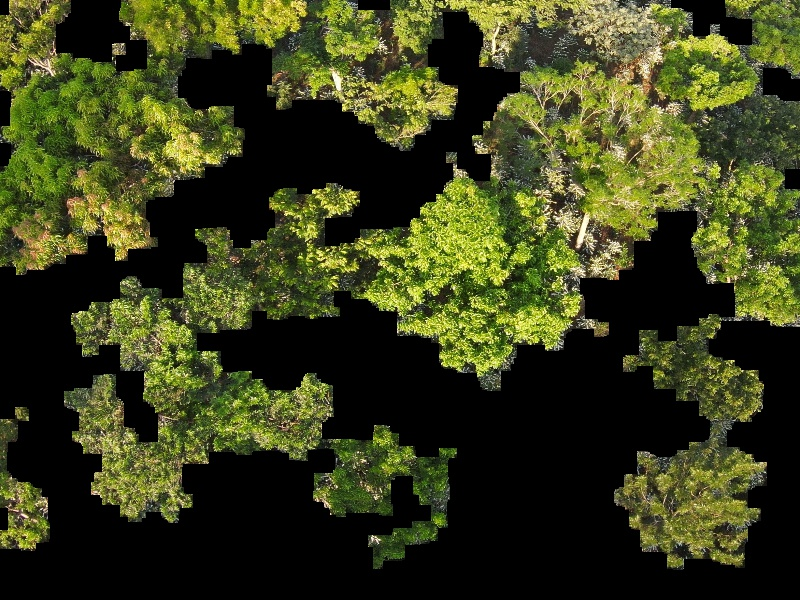
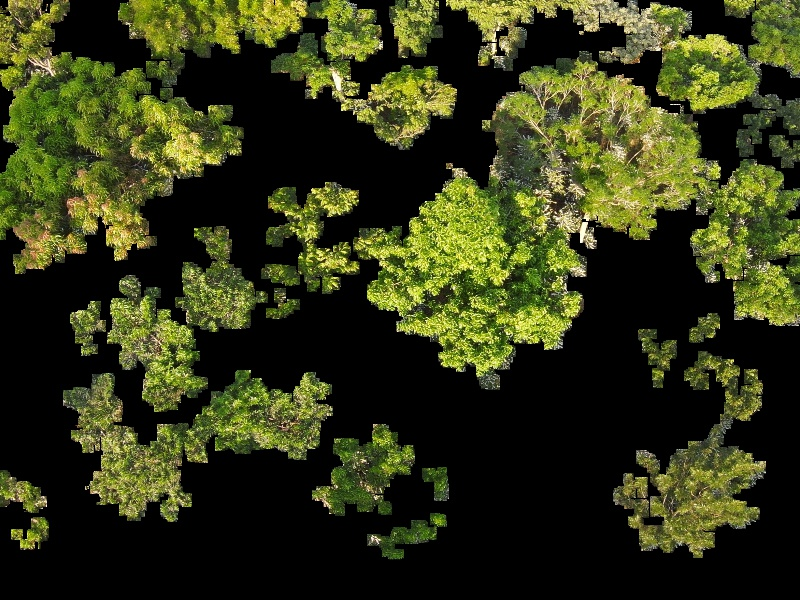
pAPER

diff --git a/ShadesLevels2.py b/ShadesLevels2.py
@@ -1,0 +1,168 @@
+import cv2
+import numpy as np
+import math
+import os
+
+def calculate_area_per_pixel_factor(resolution_horizontal, resolution_vertical, focal_length, drone_height):
+    # Convertir el ángulo de apertura a radianes
+    angle_of_view_rad = math.radians(focal_length)
+    # Calcular el tamaño del píxel en metros en ambas dimensiones
+    pixel_size_horizontal_m = 2 * drone_height * math.tan(angle_of_view_rad / 2) / resolution_horizontal
+    pixel_size_vertical_m = 2 * drone_height * math.tan(angle_of_view_rad / 2) / resolution_vertical
+    # Calcular el factor de conversión de área por píxel (metros cuadrados/píxel)
+    factor = pixel_size_horizontal_m * pixel_size_vertical_m
+    return factor
+
+def Image_Reading(image_path):
+    # Load the image using OpenCV
+    image = cv2.imread(image_path)
+    if image is None:
+        print("Could not load the image.")
+        return
+    else:
+        return image
+
+def Apply_Green_Highlight(image):
+    # Convert image to HSV color space
+    hsv_image = cv2.cvtColor(image, cv2.COLOR_BGR2HSV)
+    
+    # Define the range of green color in HSV
+    lower_green = np.array([24, 40, 40])
+    upper_green = np.array([90, 255, 255])
+    
+    # Create a mask for green color
+    green_mask = cv2.inRange(hsv_image, lower_green, upper_green)
+    
+    # Create a black image of the same size as input
+    highlight_image = np.zeros_like(image)
+    
+    # Set the green region in the highlight image
+    highlight_image[green_mask > 0] = [0, 255, 0]  # Highlight in green
+    
+    # Combine the highlight image and the original image
+    highlighted_image = cv2.addWeighted(image, 0.7, highlight_image, 0.3, 0)
+    
+    return highlighted_image, green_mask
+
+def Apply_TopHat(image):
+    # Define the kernel size for top hat
+    kernel_size = (10, 10)
+
+    # Create a rectangular kernel
+    kernel = cv2.getStructuringElement(cv2.MORPH_RECT, kernel_size)
+    
+    # Apply the grayscale open operation as top hat
+    top_hat = cv2.morphologyEx(image, cv2.MORPH_OPEN, kernel)
+    
+    return top_hat
+
+def Apply_ClosingAndOpening(image, kernel_size1,kernel_size2):
+    # Create a rectangular kernel
+    kernel1 = cv2.getStructuringElement(cv2.MORPH_RECT, kernel_size1)
+    kernel2 = cv2.getStructuringElement(cv2.MORPH_RECT, kernel_size2)
+    # Apply the closing operation
+    closed_image = cv2.morphologyEx(image, cv2.MORPH_CLOSE, kernel1)
+    
+    # Apply the opening operation
+    opened_image = cv2.morphologyEx(closed_image, cv2.MORPH_OPEN, kernel2)
+        
+    return opened_image
+
+def Apply_OpeningAndClosing(image, kernel_size1,kernel_size2):
+
+
+    
+    # Create a rectangular kernel
+    kernel1 = cv2.getStructuringElement(cv2.MORPH_RECT, kernel_size1)
+    kernel2 = cv2.getStructuringElement(cv2.MORPH_RECT, kernel_size2)
+  
+    # Apply the opening operation
+    opened_image = cv2.morphologyEx(image, cv2.MORPH_OPEN, kernel2)
+    
+    # Apply the closing operation
+    closed_image = cv2.morphologyEx(opened_image, cv2.MORPH_CLOSE, kernel1)
+    
+    return closed_image
+
+def filter_objects_by_area(binary_image, min_contour_area):
+    # Find contours in the binary image
+    contours, _ = cv2.findContours(binary_image, cv2.RETR_EXTERNAL, cv2.CHAIN_APPROX_SIMPLE)
+
+    # Create an image to store the selected objects
+    selected_objects_image = np.zeros_like(binary_image)
+
+    for contour in contours:
+        contour_area = cv2.contourArea(contour)
+        if contour_area >= min_contour_area:
+            cv2.drawContours(selected_objects_image, [contour], -1, 255, -1)
+
+    return selected_objects_image
+
+def Percentage_shades(segment_mask):
+    # Calculate the percentage of white and black pixels in the segment mask
+    total_pixels = segment_mask.shape[0] * segment_mask.shape[1] 
+    white_pixels = np.sum(segment_mask == 255)
+    shades_percentage = (white_pixels / total_pixels) * 100
+    
+    # Value of shades in square meters
+    # Datos proporcionados
+    resolution_horizontal = 3840  # Resolución horizontal de la imagen en píxeles
+    resolution_vertical = 2160    # Resolución vertical de la imagen en píxeles
+    focal_length_deg = 155         # Ángulo de apertura focal en grados
+    drone_height_m = 28          # Altura del dron sobre el terreno en metros
+    factor = calculate_area_per_pixel_factor(resolution_horizontal, resolution_vertical, focal_length_deg, drone_height_m)
+    
+    shades_decimal= white_pixels * factor
+    
+    print(f"Shades[%]: {shades_percentage:.2f}%")
+    print(f"Shades[\u33A1]: {shades_decimal:.2f}")
+
+def Display_and_Save_Images(original_image, segmented_result, image_name):
+    cv2.imshow('Original Image', original_image)
+    cv2.imshow('Segment result', segmented_result)
+
+    # Save the images to the "results" folder
+    result_folder = "./results"
+    os.makedirs(result_folder, exist_ok=True)
+    original_image_path = os.path.join(result_folder, f"{image_name}_original.jpg")
+    segmented_result_path = os.path.join(result_folder, f"{image_name}_segmented.jpg")
+    cv2.imwrite(original_image_path, original_image)
+    cv2.imwrite(segmented_result_path, segmented_result)
+    
+    #cv2.waitKey(1000)  # Display images for 1 second
+    cv2.destroyAllWindows()
+    
+def get_image_paths_in_folder(folder_path, extensions=[".jpg", ".png", ".jpeg"]):
+    image_paths = []
+    
+    for root, _, files in os.walk(folder_path):
+        for file in files:
+            if any(file.lower().endswith(ext) for ext in extensions):
+                image_paths.append(os.path.join(root, file))
+    
+    return image_paths
+
+
+if __name__ == "__main__":
+    image_paths = get_image_paths_in_folder('./Selection/')
+    for elemento in image_paths:
+        #Read Image path
+        image_name = os.path.splitext(os.path.basename(elemento))[0]
+        #Read Image
+        original_image = Image_Reading(elemento)
+        #Resize Image
+        resized_image = cv2.resize(original_image, (800, 600))
+        #Filtered by color
+        gree_image, green_mask = Apply_Green_Highlight(resized_image)
+        #Apply Top-Hat filter
+        top_hat_image = Apply_TopHat(gree_image)
+        #Green mask application
+        green_highlighted_image, green_mask = Apply_Green_Highlight(top_hat_image)
+        green_mask = Apply_OpeningAndClosing(green_mask, (15, 15), (10, 10))
+        #Segmentation by area
+        segment_mask = filter_objects_by_area(green_mask, 500)
+        segmented_result = cv2.bitwise_and(resized_image, resized_image, mask=segment_mask)
+        #Percentage by area
+        Percentage_shades(segment_mask)
+        #Results
+        Display_and_Save_Images(resized_image, segmented_result, image_name)

diff --git a/ShadesLevels.py b/ShadesLevels.py
@@ -117,16 +117,34 @@ def Percentage_shades(segment_mask):
     print(f"Shades[%]: {shades_percentage:.2f}%")
     print(f"Shades[\u33A1]: {shades_decimal:.2f}")
 
-def Display_and_Save_Images(original_image, segmented_result, image_name):
-    cv2.imshow('Original Image', original_image)
-    cv2.imshow('Segment result', segmented_result)
+def Display_and_Save_Images(resized_image, gree_image1,green_mask1,top_hat_image,gree_image2,green_mask2,Apply_OpeningAndClosing_Image,Filtered_byArea_Image,  segmented_result, image_name):
+    #cv2.imshow('Original Image', original_image)
+    #cv2.imshow('Segment result', segmented_result)
 
     # Save the images to the "results" folder
     result_folder = "./results"
     os.makedirs(result_folder, exist_ok=True)
+    
+    
     original_image_path = os.path.join(result_folder, f"{image_name}_original.jpg")
+    gree_image1_image_path = os.path.join(result_folder, f"{image_name}_gree_image1.jpg")
+    green_mask1_image_path = os.path.join(result_folder, f"{image_name}_green_mask1.jpg")
+    top_hat_image_image_path = os.path.join(result_folder, f"{image_name}_top_hat.jpg")
+    gree_image2_image_path = os.path.join(result_folder, f"{image_name}_gree_image2.jpg")
+    green_mask2_image_path = os.path.join(result_folder, f"{image_name}_green_mask2.jpg")   
+    Apply_OpeningAndClosing_Image_image_path = os.path.join(result_folder, f"{image_name}_Apply_OpeningAndClosing.jpg")   
+    Filtered_byArea_Image_Image_image_path =os.path.join(result_folder, f"{image_name}_Filtered_byArea.jpg")  
     segmented_result_path = os.path.join(result_folder, f"{image_name}_segmented.jpg")
-    cv2.imwrite(original_image_path, original_image)
+    
+    
+    cv2.imwrite(original_image_path, resized_image)
+    cv2.imwrite(gree_image1_image_path, gree_image1)
+    cv2.imwrite(green_mask1_image_path, green_mask1)
+    cv2.imwrite(top_hat_image_image_path, top_hat_image)
+    cv2.imwrite(gree_image2_image_path, gree_image2)
+    cv2.imwrite(green_mask2_image_path, green_mask2)
+    cv2.imwrite(Apply_OpeningAndClosing_Image_image_path, Apply_OpeningAndClosing_Image)
+    cv2.imwrite(Filtered_byArea_Image_Image_image_path, Filtered_byArea_Image)
     cv2.imwrite(segmented_result_path, segmented_result)
     
     cv2.waitKey(1000)  # Display images for 1 second
@@ -153,16 +171,16 @@ if __name__ == "__main__":
         #Resize Image
         resized_image = cv2.resize(original_image, (800, 600))
         #Filtered by color
-        gree_image, green_mask = Apply_Green_Highlight(resized_image)
+        gree_image1, green_mask1 = Apply_Green_Highlight(resized_image)
         #Apply Top-Hat filter
-        top_hat_image = Apply_TopHat(gree_image)
+        top_hat_image = Apply_TopHat(gree_image1)
         #Green mask application
-        green_highlighted_image, green_mask = Apply_Green_Highlight(top_hat_image)
-        green_mask = Apply_OpeningAndClosing(green_mask, (15, 15), (10, 10))
+        gree_image2, green_mask2 = Apply_Green_Highlight(top_hat_image)
+        Apply_OpeningAndClosing_Image = Apply_OpeningAndClosing(green_mask2, (15, 15), (10, 10))
         #Segmentation by area
-        segment_mask = filter_objects_by_area(green_mask, 500)
-        segmented_result = cv2.bitwise_and(resized_image, resized_image, mask=segment_mask)
+        Filtered_byArea_Image = filter_objects_by_area(green_mask2, 500)
+        segmented_result = cv2.bitwise_and(resized_image, resized_image, mask=Filtered_byArea_Image)
         #Percentage by area
-        Percentage_shades(segment_mask)
+        Percentage_shades(Filtered_byArea_Image)
         #Results
-        Display_and_Save_Images(resized_image, segmented_result, image_name)
+        Display_and_Save_Images(resized_image, gree_image1,green_mask1,top_hat_image,gree_image2,green_mask2,Apply_OpeningAndClosing_Image,Filtered_byArea_Image,  segmented_result, image_name)
